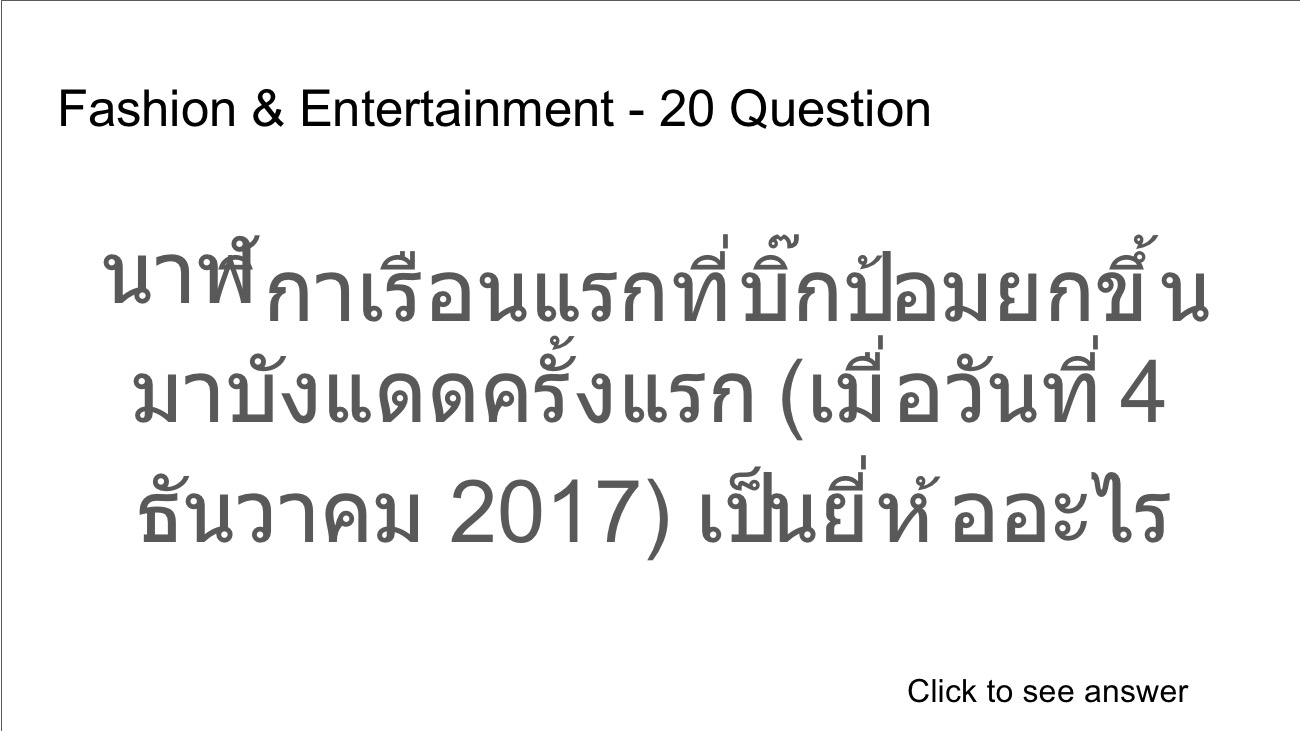
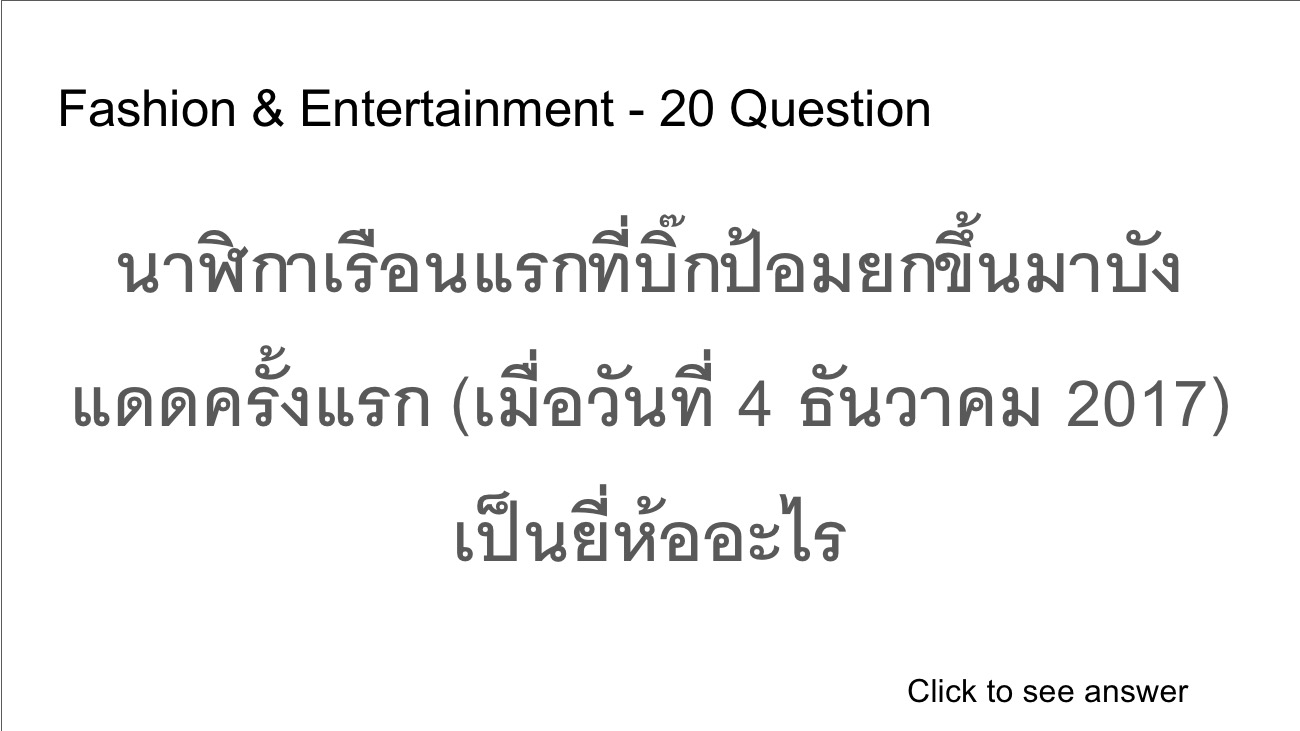
Fix Thai lang

Changed region(s): [[0.0308, 0.2709, 0.9538, 0.6019], [0.0923, 0.632, 0.8923, 0.7825]]

diff --git a/index.html b/index.html
@@ -101,7 +101,7 @@
 <script>
 
 
-  var topics = ["Sports", "Science & Technology", "Books", "Games & Comics", "Travel & Geography", "Fashion & Entertainment", "ถอดรหัส"];
+  var topics = ["Sports", "Science & Technology", "Fiction & Literature", "Games & Comics", "Travel & Geography", "Fashion & Entertainment", "ถอดรหัส"];
   var scores = ["10", "20", "30"];
   var questions = {};
   var answers = {};
